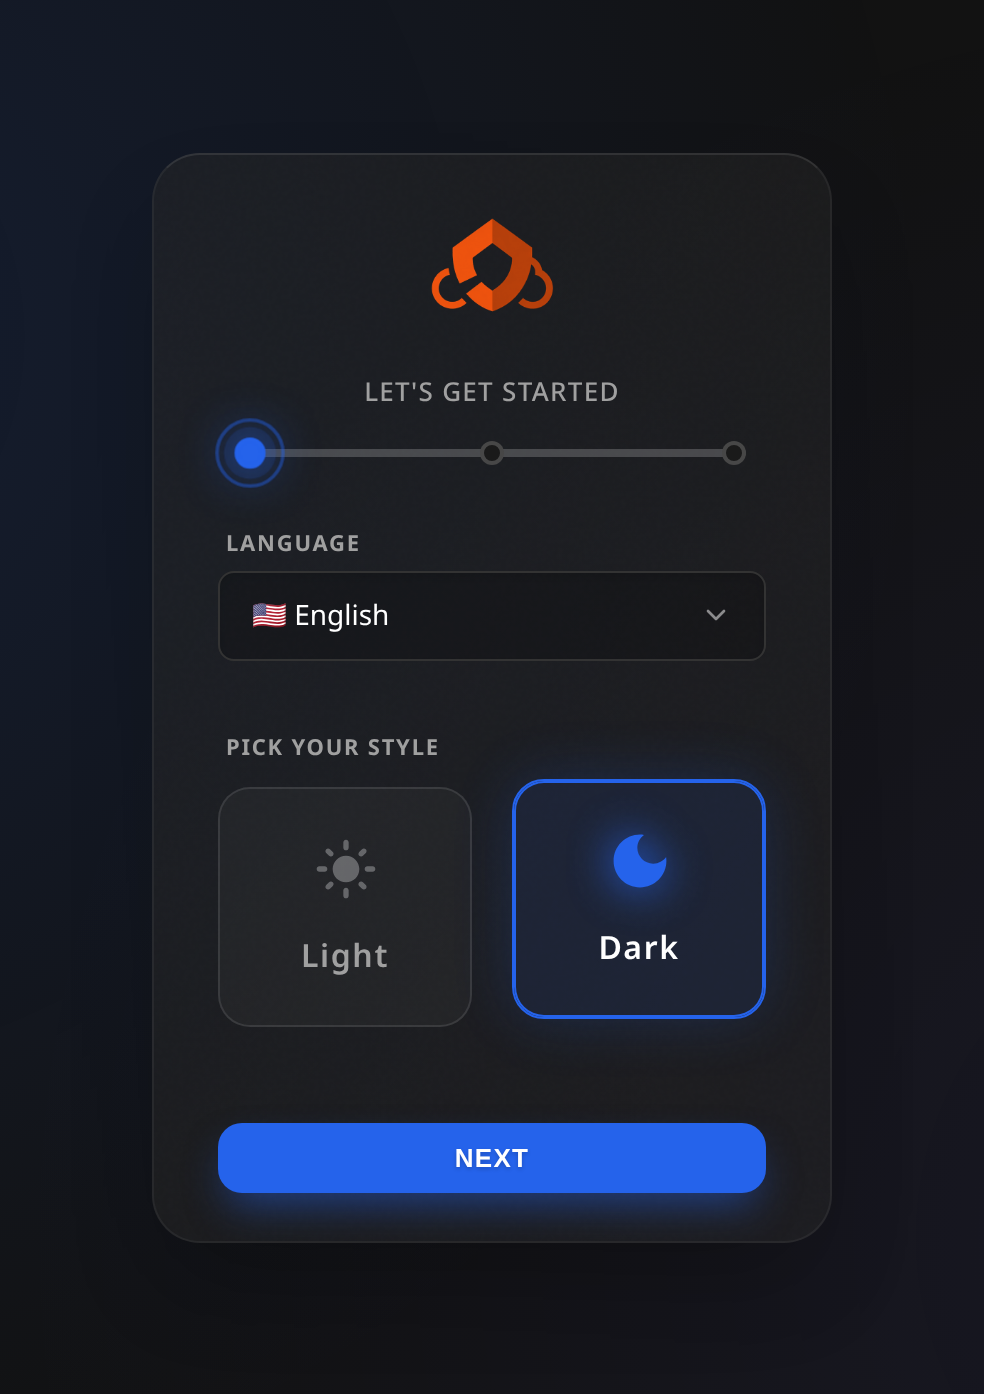
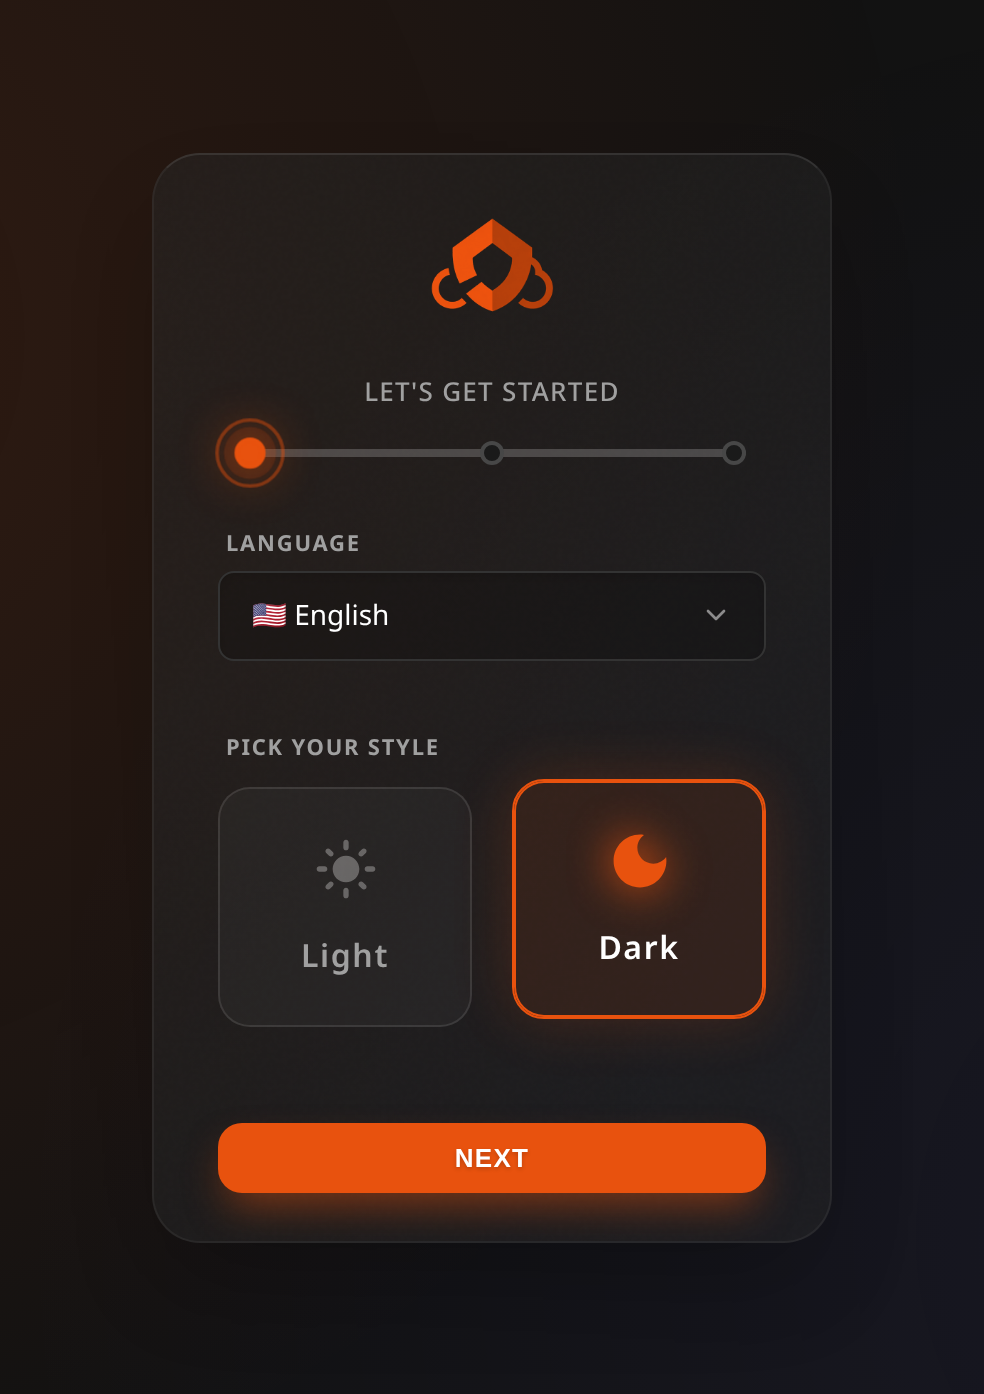
feat: the brand orange is the default accent, everywhere it was blue
A new install came up blue. Three different blues, in fact, all acting as the
default in different places: #2563eb in the setup handler and in the row written
for every new account, the named colour 'blue' as the database default, and
#0078D4 as the fallback whenever a colour could not be resolved. The setup
wizard, the login screen, the board and the widgets all inherited one of them.

They are all #e8520e now — the orange the site, the documentation and the logo
already use. The palette's own orange swatch moves to the same value, so the
product has one orange rather than two, and the swatch shown as selected really
is the colour in use.

Existing accounts keep whatever they have: their preference is stored, and a
stored preference is a choice even when it started life as a default.

diff --git a/web/src/components/ui/SettingsContent/SettingsContent.ts b/web/src/components/ui/SettingsContent/SettingsContent.ts
@@ -54,7 +54,7 @@ class SettingsContent extends HTMLElement {
         adoptSharedStyles(this.shadowRoot);
         // Safe initial state while loading
         this.prefs = {
-            accent_color: '#0078D4',
+            accent_color: '#e8520e',
             language: 'en',
             widget_min_width: 140,
             beta_updates: false,
@@ -510,11 +510,11 @@ class SettingsContent extends HTMLElement {
         let hex = color;
         const colorMap: Record<string, string> = {
             'blue': '#228be6', 'indigo': '#4c6ef5', 'cyan': '#15aabf',
-            'teal': '#12b886', 'orange': '#fd7e14', 'red': '#fa5252', 'grape': '#be4bdb'
+            'teal': '#12b886', 'orange': '#e8520e', 'red': '#fa5252', 'grape': '#be4bdb'
         };
 
         if (!color.startsWith('#')) {
-            hex = colorMap[color] || '#0078D4';
+            hex = colorMap[color] || '#e8520e';
         }
 
         document.documentElement.style.setProperty('--accent', hex);
@@ -848,7 +848,7 @@ class SettingsContent extends HTMLElement {
             initials: '??',
             role: i18n.t('role.view_only'),
             avatar_url: '',
-            accent_color: '#0078D4',
+            accent_color: '#e8520e',
             language: 'en',
             preferences: {}
         } as User;
@@ -860,7 +860,7 @@ class SettingsContent extends HTMLElement {
             case 'theme': {
                 const colorMap: Record<string, string> = {
                     'blue': '#228be6', 'indigo': '#4c6ef5', 'cyan': '#15aabf',
-                    'teal': '#12b886', 'orange': '#fd7e14', 'red': '#fa5252', 'grape': '#be4bdb'
+                    'teal': '#12b886', 'orange': '#e8520e', 'red': '#fa5252', 'grape': '#be4bdb'
                 };
                 const colors = Object.keys(colorMap);
                 return themeTemplate(this.prefs, colorMap, colors);

diff --git a/web/src/widgets/core/DockerWidget.ts b/web/src/widgets/core/DockerWidget.ts
@@ -124,7 +124,7 @@ const CSS = `
     font-family: var(--font-sans); cursor: pointer;
     transition: all 0.15s; opacity: 1;
 }
-.retry-btn:hover { background: rgba(var(--accent-rgb,37,99,235),0.12); border-color: var(--accent); color: var(--accent); }
+.retry-btn:hover { background: rgba(var(--accent-rgb,232,82,14),0.12); border-color: var(--accent); color: var(--accent); }
 
 /* ── Skeleton rows ── */
 .skeleton-row {
@@ -276,8 +276,8 @@ const CSS = `
 }
 .port-badge.more {
     color: var(--accent);
-    border-color: rgba(var(--accent-rgb,37,99,235),0.3);
-    background: rgba(var(--accent-rgb,37,99,235),0.08);
+    border-color: rgba(var(--accent-rgb,232,82,14),0.3);
+    background: rgba(var(--accent-rgb,232,82,14),0.08);
 }
 
 /* ACTIONS cell */
@@ -297,7 +297,7 @@ const CSS = `
     position: relative; flex-shrink: 0;
 }
 .action-btn svg { width: 13px; height: 13px; }
-.action-btn:hover { border-color: var(--accent); color: var(--accent); background: rgba(var(--accent-rgb,37,99,235),0.1); }
+.action-btn:hover { border-color: var(--accent); color: var(--accent); background: rgba(var(--accent-rgb,232,82,14),0.1); }
 .action-btn:active { transform: scale(0.92); }
 .action-btn[data-action="stop"]:hover:not(:disabled)  { background: rgba(var(--danger-rgb,220,38,38),0.1); border-color: var(--danger-color); color: var(--danger-color); }
 .action-btn[data-action="start"]:hover:not(:disabled) { background: rgba(var(--success-rgb,22,163,74),0.1); border-color: var(--success-color); color: var(--success-color); }

diff --git a/web/src/components/ui/SettingsContent/SettingsContent.template.ts b/web/src/components/ui/SettingsContent/SettingsContent.template.ts
@@ -102,7 +102,7 @@ export const themeTemplate = (prefs: Prefs, colorMap: Record<string, string>, co
                      <svg viewBox="0 0 24 24" style="z-index: 5; fill: white; filter: drop-shadow(0 1px 2px rgba(0,0,0,0.5)); pointer-events: none;">
                         <path d="M12 3c-4.97 0-9 4.03-9 9s4.03 9 9 9c.83 0 1.5-.67 1.5-1.5 0-.39-.15-.74-.39-1.01-.23-.26-.38-.61-.38-.99 0-.83.67-1.5 1.5-1.5H16c2.76 0 5-2.24 5-5 0-4.42-4.03-8-9-8zm-5 9c-.55 0-1-.45-1-1s.45-1 1-1 1 .45 1 1-.45 1-1 1zm3-3c-.55 0-1-.45-1-1s.45-1 1-1 1 .45 1 1-.45 1-1 1zm5 0c-.55 0-1-.45-1-1s.45-1 1-1 1 .45 1 1-.45 1-1 1zm3 3c-.55 0-1-.45-1-1s.45-1 1-1 1 .45 1 1-.45 1-1 1z"/>
                      </svg>
-                     <app-color-picker class="settings-content__swatch-picker" trigger-opacity="0" value="${prefs.accent_color.startsWith('#') ? prefs.accent_color : '#0078D4'}"
+                     <app-color-picker class="settings-content__swatch-picker" trigger-opacity="0" value="${prefs.accent_color.startsWith('#') ? prefs.accent_color : '#e8520e'}"
                             data-change="accent-picker"></app-color-picker>
                 </div>
              </div>

diff --git a/web/src/components/ui/AddBookmarkModal/AddBookmarkModal.template.ts b/web/src/components/ui/AddBookmarkModal/AddBookmarkModal.template.ts
@@ -53,7 +53,7 @@ const renderAppearanceControls = (color: string, borderWidth: number) => {
                  <svg viewBox="0 0 24 24" style="z-index: 5; fill: white; filter: drop-shadow(0 1px 2px rgba(0,0,0,0.5)); pointer-events: none;">
                     <path d="M12 3c-4.97 0-9 4.03-9 9s4.03 9 9 9c.83 0 1.5-.67 1.5-1.5 0-.39-.15-.74-.39-1.01-.23-.26-.38-.61-.38-.99 0-.83.67-1.5 1.5-1.5H16c2.76 0 5-2.24 5-5 0-4.42-4.03-8-9-8zm-5 9c-.55 0-1-.45-1-1s.45-1 1-1 1 .45 1 1-.45 1-1 1zm3-3c-.55 0-1-.45-1-1s.45-1 1-1 1 .45 1 1-.45 1-1 1zm5 0c-.55 0-1-.45-1-1s.45-1 1-1 1 .45 1 1-.45 1-1 1zm3 3c-.55 0-1-.45-1-1s.45-1 1-1 1 .45 1 1-.45 1-1 1z"/>
                  </svg>
-                 <app-color-picker class="premium-swatch-picker" id="bookmark-borderColor" trigger-opacity="0" value="${isCustom ? color : '#0078D4'}"></app-color-picker>
+                 <app-color-picker class="premium-swatch-picker" id="bookmark-borderColor" trigger-opacity="0" value="${isCustom ? color : '#e8520e'}"></app-color-picker>
             </div>
         </div>
     </div>

diff --git a/web/src/store/userStore.ts b/web/src/store/userStore.ts
@@ -60,7 +60,7 @@ class UserStore {
         this.user = {
             ...cleanUserData,
             preferences: {
-                accent_color: userData.accent_color || 'blue',
+                accent_color: userData.accent_color || 'orange',
                 language: userData.language || 'en',
                 theme: userData.theme, // Map theme from backend!
                 grid_columns: userData.grid_columns || 12, // Default 12
@@ -133,9 +133,9 @@ class UserStore {
         if (color.startsWith('#')) return color;
         const map: Record<string, string> = {
             'blue': '#228be6', 'indigo': '#4c6ef5', 'cyan': '#15aabf',
-            'teal': '#12b886', 'orange': '#fd7e14', 'red': '#fa5252', 'grape': '#be4bdb'
+            'teal': '#12b886', 'orange': '#e8520e', 'red': '#fa5252', 'grape': '#be4bdb'
         };
-        return map[color] || '#0078D4';
+        return map[color] || '#e8520e';
     }
 
     // Success is NOT announced here: the settings panel decides, per control,

diff --git a/web/styles/theme.css b/web/styles/theme.css
@@ -14,9 +14,9 @@
     --modal-blur: blur(12px);
 
     /* Accents */
-    --accent: #2563eb;
-    --accent-alt: #4f46e5;
-    --accent-rgb: 37, 99, 235;
+    --accent: #e8520e;
+    --accent-alt: #c2410c;
+    --accent-rgb: 232, 82, 14;
 
     /* Borders & Text — light equivalents of dark's #333/#444 */
     --border: rgba(0, 0, 0, 0.05);
@@ -119,7 +119,7 @@
     --modal-blur: blur(12px);
 
     /* Accents */
-    --accent-rgb: 37, 99, 235;
+    --accent-rgb: 232, 82, 14;
     /* Default fallback, overridden by JS */
 
     /* Borders & Text */

diff --git a/web/src/widgets/core/MarkdownWidget.ts b/web/src/widgets/core/MarkdownWidget.ts
@@ -65,7 +65,7 @@ export class MarkdownWidget extends HTMLElement {
                     border-radius: 12px;
                     overflow: hidden;
                     position: relative;
-                    --lb-accent: var(--accent, #0078D4);
+                    --lb-accent: var(--accent, #e8520e);
                     --lb-border: var(--border, rgba(255,255,255,0.1));
                     --lb-text-dim: var(--text-dim, rgba(255,255,255,0.5));
                 }

diff --git a/web/src/components/ui/ColorPicker/ColorPicker.ts b/web/src/components/ui/ColorPicker/ColorPicker.ts
@@ -8,10 +8,10 @@ export class ColorPicker extends HTMLElement {
         return ['value', 'trigger-opacity'];
     }
 
-    private _value: string = '#0078D4';
+    private _value: string = '#e8520e';
     private _h: number = 210;
     private _s: number = 100;
-    private _v: number = 83; // Approx for #0078D4
+    private _v: number = 91; // Approx for #e8520e
 
     private _popover: HTMLElement | null = null;
     private _satArea: HTMLElement | null = null;

diff --git a/web/src/config/defaults.ts b/web/src/config/defaults.ts
@@ -18,14 +18,14 @@ export const DEFAULT_USER: User = {
     initials: 'DU',
     role: 'admin',
     avatar_url: '',
-    accent_color: 'blue',
+    accent_color: 'orange',
     language: 'en',
     theme: 'dark',
     grid_columns: 12,
     project_name: 'Lastboard',
     beta_updates: false,
     preferences: {
-        accent_color: 'blue',
+        accent_color: 'orange',
         language: 'en',
         theme: 'dark',
         grid_columns: 12,

diff --git a/web/index.html b/web/index.html
@@ -4,7 +4,7 @@
 <head>
     <meta charset="UTF-8">
     <meta name="viewport" content="width=device-width, initial-scale=1.0">
-    <meta name="theme-color" content="#2563eb">
+    <meta name="theme-color" content="#e8520e">
     <meta name="mobile-web-app-capable" content="yes">
     <meta name="apple-mobile-web-app-status-bar-style" content="default">
     <link rel="icon" type="image/png" href="/favicon.png">

diff --git a/web/src/widgets/core/NotepadWidget.ts b/web/src/widgets/core/NotepadWidget.ts
@@ -76,7 +76,7 @@ const CSS = `
     --lb-bg: var(--bg-card, #1a1a1a);
     --lb-text: var(--text-main, #ffffff);
     --lb-text-dim: var(--text-dim, rgba(255,255,255,0.5));
-    --lb-accent: var(--accent, #0078D4);
+    --lb-accent: var(--accent, #e8520e);
     --lb-accent-rgb: var(--accent-rgb, 0, 120, 212);
     --lb-border: var(--border, rgba(255,255,255,0.1));
 

diff --git a/web/src/services/demoService.ts b/web/src/services/demoService.ts
@@ -147,7 +147,7 @@ class DemoService {
         // Ensure preferences object exists
         if (!updated.preferences) {
             updated.preferences = {
-                accent_color: 'blue',
+                accent_color: 'orange',
                 language: 'en',
                 theme: 'system',
                 grid_columns: 12
